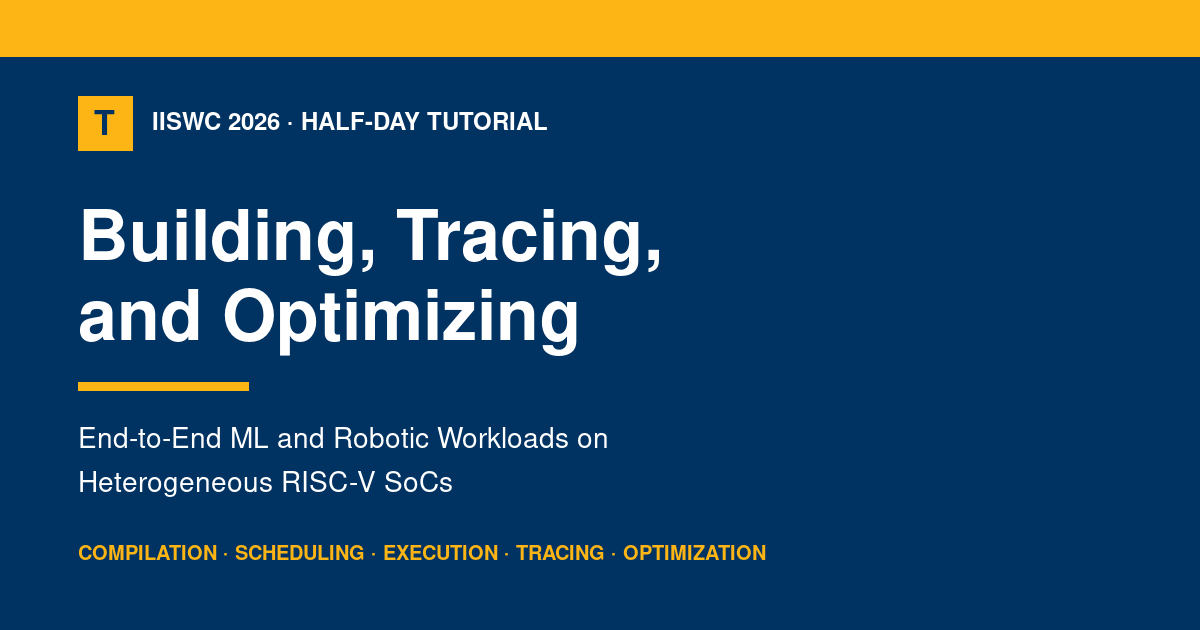
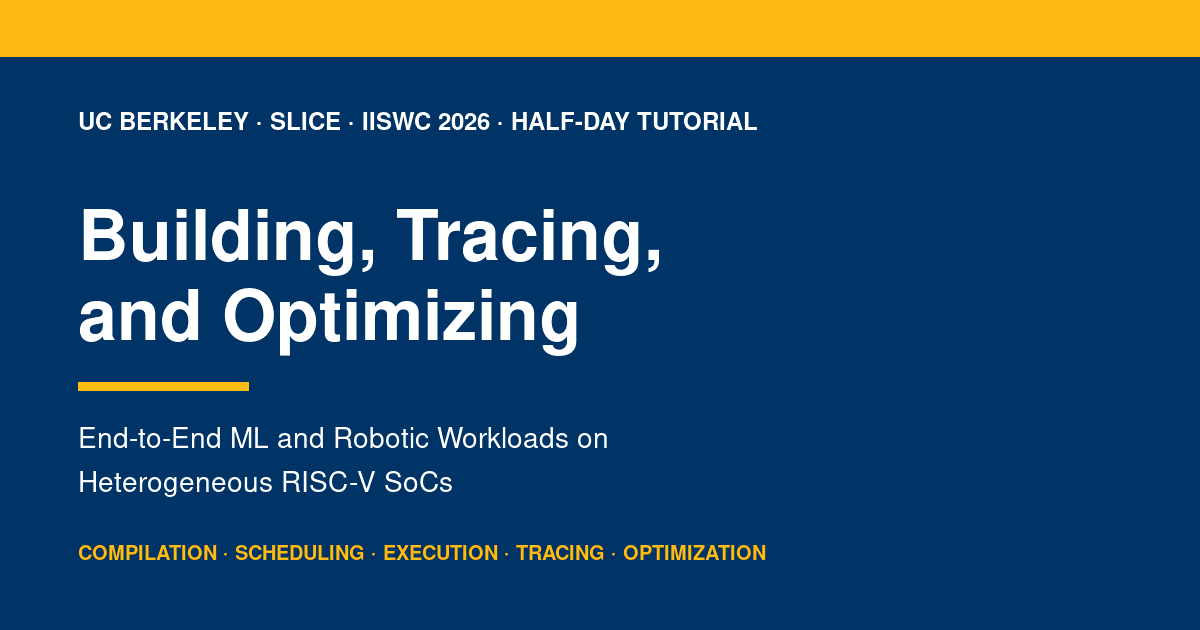
Use Berkeley and SLICE branding in header

Changed region(s): [[0.0617, 0.1508, 0.6475, 0.2413]]

diff --git a/src/styles.css b/src/styles.css
@@ -233,22 +233,34 @@ svg {
   display: inline-flex;
   flex: 0 0 auto;
   align-items: center;
-  gap: 0.7rem;
+  gap: 0.8rem;
   text-decoration: none;
 }
 
-.site-brand__mark {
-  display: grid;
-  width: 36px;
-  height: 36px;
-  place-items: center;
-  color: var(--blue);
-  background: var(--gold);
-  font-family: var(--mono);
-  font-weight: 900;
+.site-brand__logos {
+  display: flex;
+  padding-right: 0.8rem;
+  align-items: center;
+  gap: 0.65rem;
+  border-right: 1px solid rgba(255, 255, 255, 0.28);
 }
 
-.site-brand > span:last-child {
+.site-brand__logo {
+  display: block;
+  object-fit: contain;
+}
+
+.site-brand__logo--seal {
+  width: 34px;
+  height: 34px;
+}
+
+.site-brand__logo--slice {
+  width: 70px;
+  height: 34px;
+}
+
+.site-brand__label {
   display: flex;
   flex-direction: column;
   line-height: 1.1;
@@ -266,32 +278,6 @@ svg {
   font-size: 0.6rem;
   letter-spacing: 0.06em;
   text-transform: uppercase;
-}
-
-.nav-affiliations {
-  display: flex;
-  margin-right: auto;
-  padding-left: 1.25rem;
-  align-items: center;
-  gap: 0.9rem;
-  border-left: 1px solid rgba(255, 255, 255, 0.28);
-}
-
-.nav-affiliations img {
-  display: block;
-  object-fit: contain;
-}
-
-.nav-affiliations__seal {
-  width: 31px;
-  height: 31px;
-}
-
-.nav-affiliations__slice {
-  width: 70px;
-  height: 34px;
-  padding: 2px 4px;
-  background: var(--white);
 }
 
 .primary-nav {
@@ -1548,11 +1534,6 @@ svg {
     box-shadow: 0 16px 30px rgba(0, 31, 63, 0.24);
   }
 
-  .nav-affiliations {
-    margin-right: 0;
-    margin-left: auto;
-  }
-
   .primary-nav--open {
     display: flex;
   }
@@ -1714,20 +1695,31 @@ svg {
     gap: 0.65rem;
   }
 
-  .nav-affiliations {
-    padding-left: 0.65rem;
-    gap: 0.45rem;
+  .site-brand {
+    gap: 0.55rem;
   }
 
-  .nav-affiliations__seal {
-    width: 24px;
-    height: 24px;
+  .site-brand__logos {
+    padding-right: 0.55rem;
+    gap: 0.4rem;
   }
 
-  .nav-affiliations__slice {
-    width: 47px;
-    height: 25px;
-    padding: 1px 2px;
+  .site-brand__logo--seal {
+    width: 27px;
+    height: 27px;
+  }
+
+  .site-brand__logo--slice {
+    width: 54px;
+    height: 27px;
+  }
+
+  .site-brand strong {
+    font-size: 0.75rem;
+  }
+
+  .site-brand small {
+    font-size: 0.5rem;
   }
 
   .primary-nav {

diff --git a/src/components/Navbar.tsx b/src/components/Navbar.tsx
@@ -37,23 +37,21 @@ export function Navbar() {
     <header className="site-header">
       <div className="container nav-shell">
         <a className="site-brand" href="#top" onClick={() => setIsOpen(false)}>
-          <span className="site-brand__mark" aria-hidden="true">T</span>
-          <span>
+          <span className="site-brand__logos" aria-hidden="true">
+            {tutorial.organizationLogos.map((logo) => (
+              <img
+                className={`site-brand__logo site-brand__logo--${logo.kind}`}
+                src={`${import.meta.env.BASE_URL}${logo.asset}`}
+                alt=""
+                key={logo.name}
+              />
+            ))}
+          </span>
+          <span className="site-brand__label">
             <strong>{tutorial.conferenceShort}</strong>
             <small>Hands-on Tutorial</small>
           </span>
         </a>
-
-        <div className="nav-affiliations" aria-hidden="true">
-          {tutorial.organizationLogos.map((logo) => (
-            <img
-              className={`nav-affiliations__${logo.kind}`}
-              src={`${import.meta.env.BASE_URL}${logo.asset}`}
-              alt=""
-              key={logo.name}
-            />
-          ))}
-        </div>
 
         <button
           className="menu-toggle"

diff --git a/src/data/tutorial.ts b/src/data/tutorial.ts
@@ -36,9 +36,9 @@ const organizers: Organizer[] = [
   { name: "Dima Nikiforov", email: null },
   { name: "Shengjun Kris Dong", email: null },
   { name: "Agustin Coppari Hollmann", email: null },
+  { name: "Chengyi Lux Zhang", email: "iansseijelly@berkeley.edu" },
   { name: "Loren Hung", email: null },
   { name: "Ailsa Sun", email: null },
-  { name: "Chengyi Lux Zhang", email: "iansseijelly@berkeley.edu" },
   { name: "Yakun Sophia Shao", email: null },
 ].map(({ name, email }) => ({
   name,

diff --git a/index.html b/index.html
@@ -10,7 +10,7 @@
     <meta name="event-location" content="__EVENT_LOCATION__" />
 
     <link rel="canonical" href="__CANONICAL_URL__" />
-    <link rel="icon" href="%BASE_URL%assets/favicon.svg" type="image/svg+xml" />
+    <link rel="icon" href="%BASE_URL%assets/uc-berkeley-seal.svg" type="image/svg+xml" />
     <link rel="apple-touch-icon" href="%BASE_URL%assets/apple-touch-icon.png" />
     <link rel="manifest" href="%BASE_URL%manifest.webmanifest" />
 
